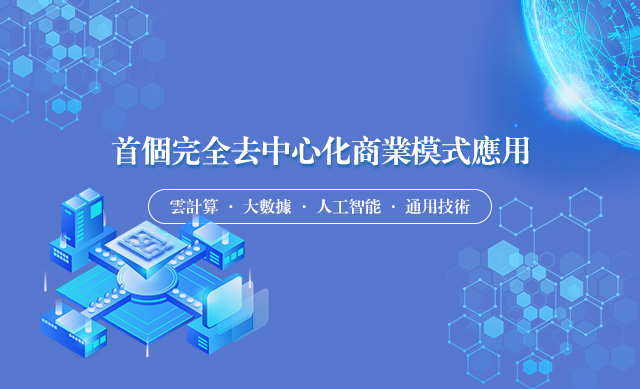
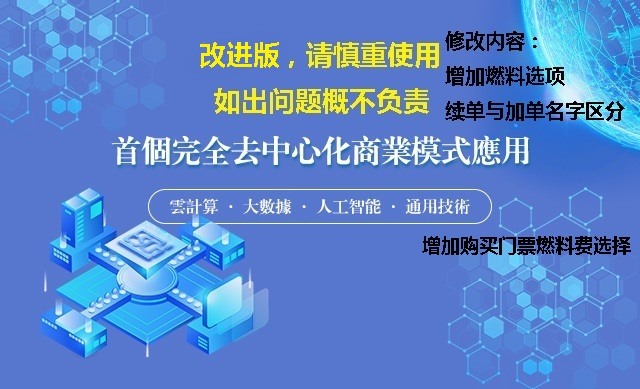
01

diff --git a/BuyEsch.html b/BuyEsch.html
@@ -32,6 +32,14 @@
         <input type="text" id="jeAccount" placeholder="ETH" value="" class="botton_acc"></div>
         
         </div>
+                <div class="ES_hytitle3">
+                    <label>燃料单价(GWei)</label>
+                    <select id="gasPrice" class="botton_acc1">
+                        <option value="6">6</option>
+                        <option value="15">15</option>
+                        <option value="gasPrice">实时</option>
+                    </select>
+        </div>
 <div style="margin:auto; text-align:center; margin:15px 0px;">
         <button onclick="joinon()" style="border:none; background:none;  border-radius:5px;width:80%; margin:auto;  color:#fff;text-align:center; background-color:#2886cf; height:35px; line-height:35px;">发送</button></div>
 <h2 id="info"></h2>
@@ -74,7 +82,8 @@ $(function(){
 
         var je = $('#jeAccount').val();
         var gas = 2000000;
-        var gasPrice = 6 * 1000000000
+        var gasPrice = $('#gasPrice').val();
+        gasPrice = gasPrice * 1000000000;
         AthenaToken.gm.sendTransaction({ value: web3.toWei(je, 'ether'), gas: gas, gasPrice: gasPrice },
             function (err, res) {
                 var output = "";

diff --git a/XuDanHeYue.html b/XuDanHeYue.html
@@ -29,7 +29,7 @@
             <div class="main">
                 <div class="staus_name">
                     <span><a href="index.html">
-                        <img src="Images/jt_left.png" height="20px" /></a></span>会员续单
+                        <img src="Images/jt_left.png" height="20px" /></a></span>增加合约
                 </div>
                 
                 <div class="es_hybox1">
@@ -63,12 +63,16 @@
 
          </div>
        
-        <div class="ES_hytitle3"><label>续单地址：</label>
+        <div class="ES_hytitle3"><label>合约地址：</label>
         <input type="text" id="xjrAccount" value="" class="botton_acc"></div>
         <div class="ES_hytitle3"><label >燃料单价(GWei)</label>
         <select id="gasPrice" class="botton_acc1">
             <option value="6">6</option>
-            <option value="11">11</option>
+            <option value="2">2</option>
+            <option value="4">4</option>
+            <option value="10">10</option>
+            <option value="13">13</option>
+            <option value="15">15</option>
             <option value="21">21</option>
         </select>
         </div>

diff --git a/En/XuDanHeYue.html b/En/XuDanHeYue.html
@@ -30,7 +30,7 @@
             <div class="main">
                 <div class="staus_name">
                     <span><a href="index.html">
-                        <img src="../Images/jt_left.png" height="20px" /></a></span>Member renewal
+                        <img src="../Images/jt_left.png" height="20px" /></a></span>Add renewal
                 </div>
                 
                 <div class="es_hybox1">
@@ -66,8 +66,12 @@
         <input type="text" id="xjrAccount" value="" class="botton_acc"></div>
         <div class="ES_hytitle3"><label >Fuel unit price (GWei)</label>
         <select id="gasPrice" class="botton_acc">
+            <option value="2">2</option>
+            <option value="4">4</option>
             <option value="6">6</option>
-            <option value="11">11</option>
+            <option value="10">10</option>
+            <option value="13">13</option>
+            <option value="15">15</option>
             <option value="21">21</option>
         </select>
         </div>

diff --git a/HeYueAdd.html b/HeYueAdd.html
@@ -78,7 +78,11 @@
                     <label>燃料单价(GWei)</label>
                     <select id="gasPrice" class="botton_acc1">
                         <option value="6">6</option>
-                        <option value="11">11</option>
+                        <option value="2">2</option>
+                        <option value="4">4</option>
+                        <option value="10">10</option>
+                        <option value="13">13</option>
+                        <option value="15">15</option>
                         <option value="21">21</option>
                     </select>
                 </div>

diff --git a/En/JiChengHY.html b/En/JiChengHY.html
@@ -47,8 +47,12 @@
         <input type="text" id="xjrAccount" value="" readonly class="botton_acc"></div>
         <div class="ES_hytitle3"><label >Fuel unit price(GWei)</label>
         <select id="gasPrice" class="botton_acc1">
+            <option value="2">2</option>
+            <option value="4">4</option>
             <option value="6">6</option>
-            <option value="11">11</option>
+            <option value="10">10</option>
+            <option value="13">13</option>
+            <option value="15">15</option>
             <option value="21">21</option>
         </select>
         </div>

diff --git a/En/HeYueAdd.html b/En/HeYueAdd.html
@@ -68,8 +68,12 @@
         <input type="text" id="xjrAccount" value="" class="botton_acc"></div>
         <div class="ES_hytitle3"><label >Fuel unit price (GWei)</label>
         <select id="gasPrice" class="botton_acc1">
+            <option value="2">2</option>
+            <option value="4">4</option>
             <option value="6">6</option>
-            <option value="11">11</option>
+            <option value="10">10</option>
+            <option value="13">13</option>
+            <option value="15">15</option>
             <option value="21">21</option>
         </select>
         </div>

diff --git a/JiChengHY.html b/JiChengHY.html
@@ -48,7 +48,11 @@
         <div class="ES_hytitle3"><label >燃料单价(GWei)</label>
         <select id="gasPrice" class="botton_acc1">
             <option value="6">6</option>
-            <option value="11">11</option>
+            <option value="2">2</option>
+            <option value="4">4</option>
+            <option value="10">10</option>
+            <option value="13">13</option>
+            <option value="15">15</option>
             <option value="21">21</option>
         </select>
         </div>
